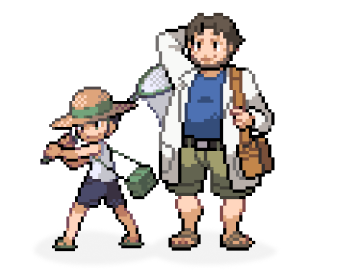
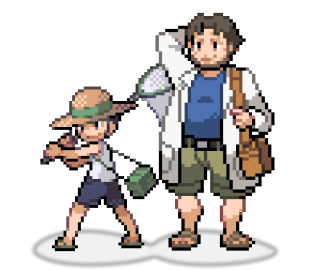
Ajusta posicionamento de imagem

diff --git a/src/screens/OnBoarding.tsx b/src/screens/OnBoarding.tsx
@@ -9,7 +9,7 @@ export default function OnBoarding() {
       <StatusBar backgroundColor='transparent' barStyle='dark-content' />
       <View className="flex-1 p-4 items-center">
         <View className="flex-1 px-4">
-          <Image source={require('../../assets/img/characters/bugcatcher-professor.png')} className="w-screen h-2/3" contentFit="contain" contentPosition={"center"} />
+          <Image source={require('../../assets/img/characters/bugcatcher-professor.png')} className="w-screen h-2/3 flex-1" contentFit="contain" contentPosition={"center"} />
           <View className="px-4 gap-4">
             <TextMedium className="text-center text-[26px]">Todos os Pokémons em um só lugar</TextMedium>
             <TextRegular className="text-center text-sm">Acesse uma vasta lista de Pokémon de
